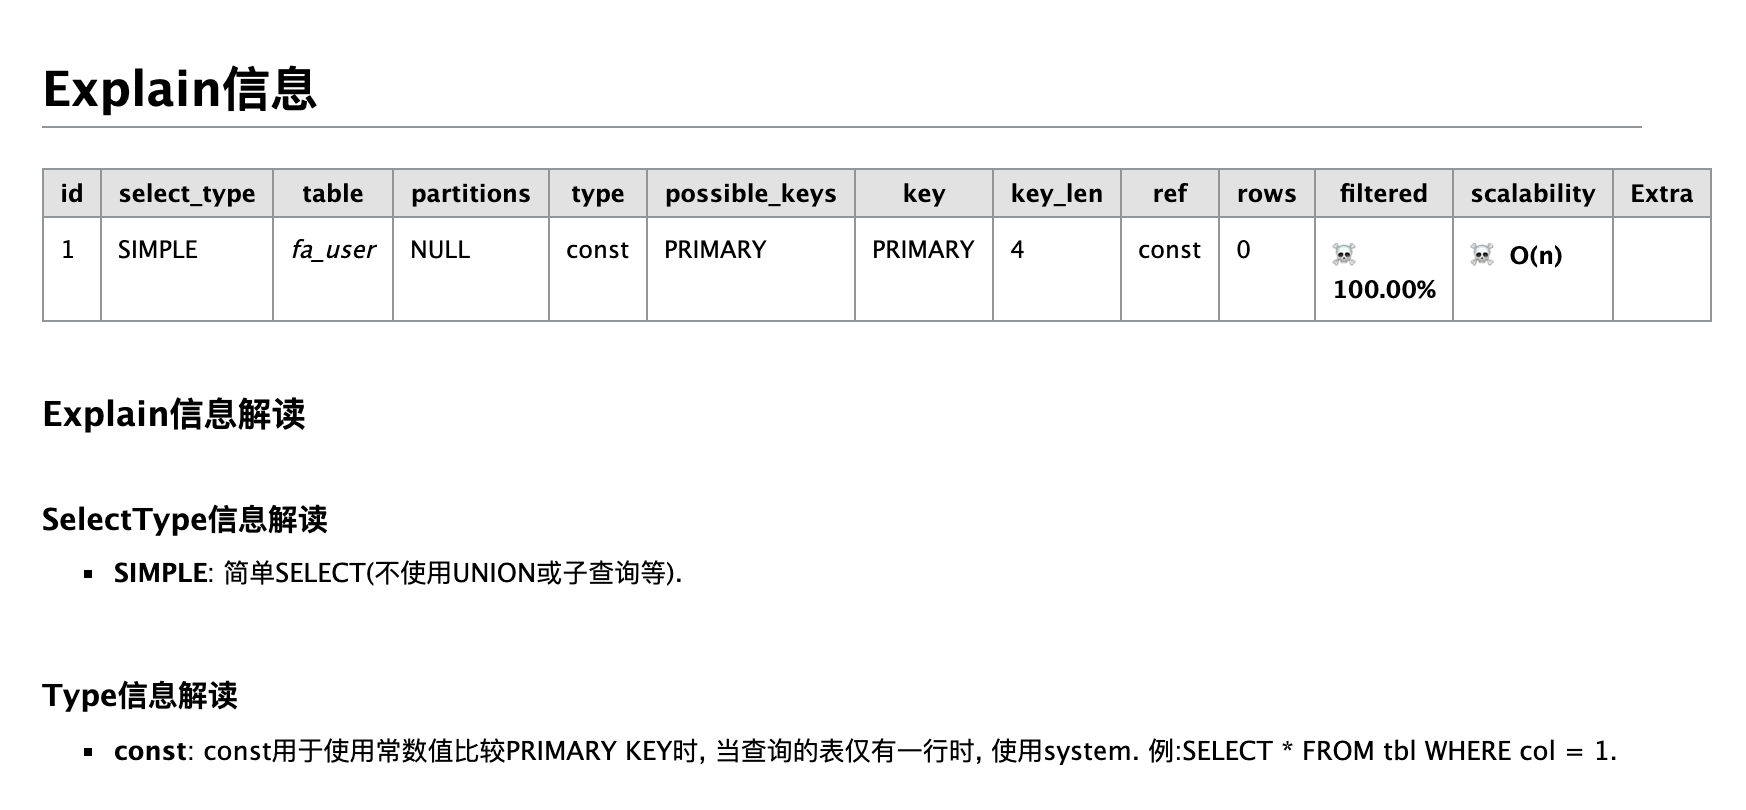
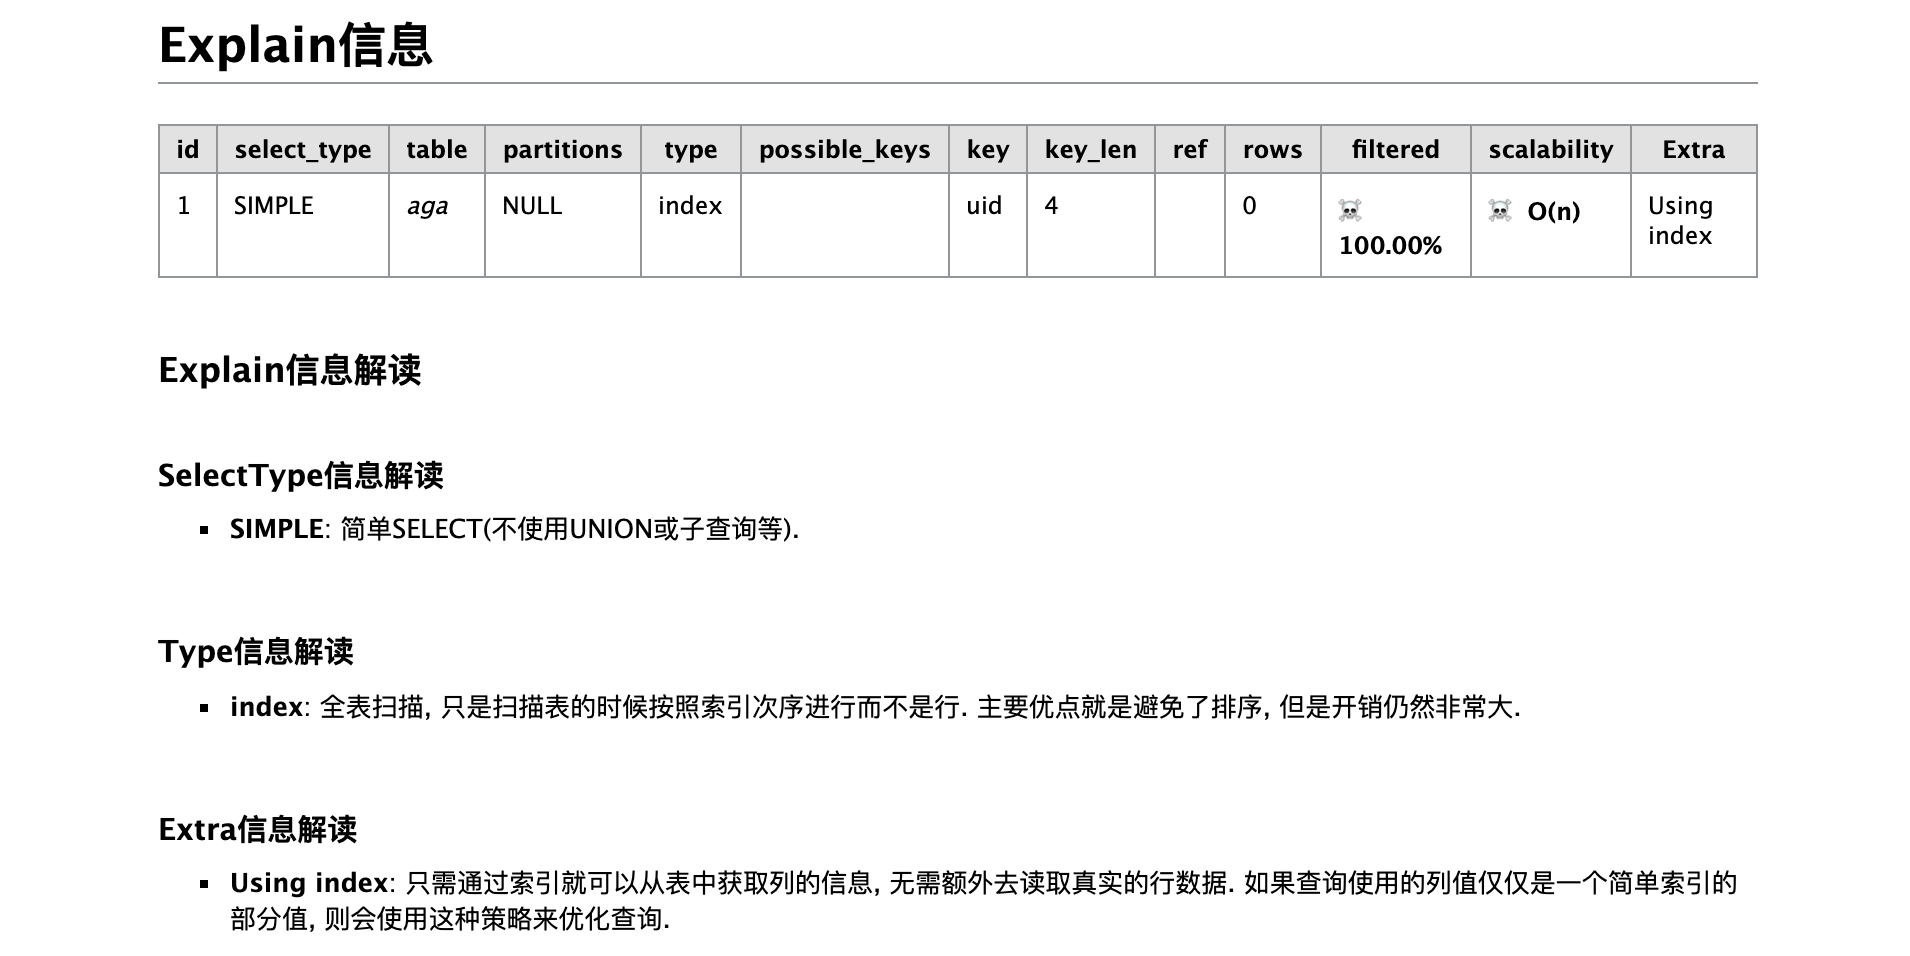
Update README.md

diff --git a/README.md b/README.md
@@ -2,6 +2,8 @@
 
 <p align="center">SQL 语句优化器和重写器</p>
 
+> **[soar-php](https://github.com/guanguans/soar-php)** 是一个基于小米公司开源的 [soar](https://github.com/XiaoMi/soar) 开发的 PHP 扩展包，是 PHP 工程师的 SQL 语句调优开发利器。
+
 [![Build Status](https://travis-ci.org/guanguans/soar-php.svg?branch=master)](https://travis-ci.org/guanguans/soar-php)
 [![Build Status](https://scrutinizer-ci.com/g/guanguans/soar-php/badges/build.png?b=master)](https://scrutinizer-ci.com/g/guanguans/soar-php/build-status/master)
 [![Scrutinizer Code Quality](https://scrutinizer-ci.com/g/guanguans/soar-php/badges/quality-score.png?b=master)](https://scrutinizer-ci.com/g/guanguans/soar-php/?branch=master)
@@ -22,9 +24,9 @@
 $ composer require guanguans/soar-php --dev
 ```
 
-## 使用示例
+## 使用
 
-### 下载 [XiaoMi](https://github.com/XiaoMi/) 开源的 SQL 优化器 [soar](https://github.com/XiaoMi/soar/releases)
+### 下载 [XiaoMi](https://github.com/XiaoMi/) 开源的 SQL 优化器 [soar](https://github.com/XiaoMi/soar/releases)，更多详细安装请参考 [soar install](https://github.com/XiaoMi/soar/blob/master/doc/install.md)
 
 ``` bash
 # macOS
@@ -33,10 +35,10 @@ $ wget https://github.com/XiaoMi/soar/releases/download/0.11.0/soar.darwin-amd64
 $ wget https://github.com/XiaoMi/soar/releases/download/0.11.0/soar.linux-amd64
 # windows
 $ wget https://github.com/XiaoMi/soar/releases/download/0.11.0/soar.windows-amd64
-# 用其他命令或下载器下载都可以
+# 用其他命令或下载器下载均可以
 ```
 
-### 初始化配置
+### 初始化配置，更多详细配置请参考 [soar config](https://github.com/XiaoMi/soar/blob/master/doc/config.md)
 
 ``` php
 <?php
@@ -47,7 +49,7 @@ use Guanguans\SoarPHP\Soar;
 
 $config = [
     // 下载的 soar 的路径
-    '-soar-path' => '/Users/yaozm/Documents/wwwroot/soar-php/soar',
+    '-soar-path' => '/Users/yaozm/Documents/wwwroot/soar-php/soar.darwin-amd64',
     // 测试环境配置
     '-test-dsn' => [
         'host' => '127.0.0.1',
@@ -66,18 +68,23 @@ $soar = new Soar($config);
 
 ### SQL 评分
 
+**方法调用：**
+
 ``` php
-$sql = 'select * from fa_user';
+$sql ="SELECT * FROM `fa_user` `user` LEFT JOIN `fa_user_group` `group` ON `user`.`group_id`=`group`.`id`;";
 echo $soar->score($sql);
 ```
 
 **输出结果：**
 
-<img src="docs/score.png" width="100%">
+![](docs/score.png)
 
-### SQL explain 分析解读
+### explain 信息解读
+
+**方法调用：**
 
 ``` php
+$sql = "SELECT * FROM `fa_auth_group_access` `aga` LEFT JOIN `fa_auth_group` `ag` ON `aga`.`group_id`=`ag`.`id`;";
 // 输出 html 格式
 echo $soar->htmlExplain($sql);
 // 输出 md 格式
@@ -91,9 +98,11 @@ echo $soar->explain($sql, 'md');
 
 **输出结果：**
 
-<img src="docs/explain.png" width="100%">
+![](docs/explain.png)
 
 ### 语法检查
+
+**方法调用：**
 
 ``` php
 $sql = 'selec * from fa_user';
@@ -108,6 +117,8 @@ At SQL 1 : line 1 column 5 near "selec * from fa_user" (total length 20)
 
 ### SQL 指纹
 
+**方法调用：**
+
 ``` php
 $sql = 'select * from fa_user where id=1';
 echo $soar->fingerPrint($sql);
@@ -120,6 +131,8 @@ select * from fa_user where id = ?
 ```
 
 ### SQL 美化
+
+**方法调用：**
 
 ``` php
 $sql = 'select * from fa_user where id=1';
@@ -139,6 +152,8 @@ WHERE
 
 ### markdown 转化为 html
 
+**方法调用：**
+
 ``` php
 echo $soar->md2html("## 这是一个测试");
 ```
@@ -150,6 +165,26 @@ echo $soar->md2html("## 这是一个测试");
 <h2>这是一个测试</h2>
 ...
 ```
+
+### 执行任意 soar 命令
+
+**方法调用：**
+
+``` php
+echo $soar->exec("echo '## 这是另一个测试' | /Users/yaozm/Documents/wwwroot/soar-php/soar.darwin-amd64 -report-type md2html");
+```
+
+**输出结果：**
+
+``` html
+...
+<h2>这是另一个测试</h2>
+...
+```
+
+## 参考链接
+
+* [https://github.com/XiaoMi/soar](https://github.com/XiaoMi/soar)，[XiaoMi](https://github.com/XiaoMi)
 
 ## License
 
